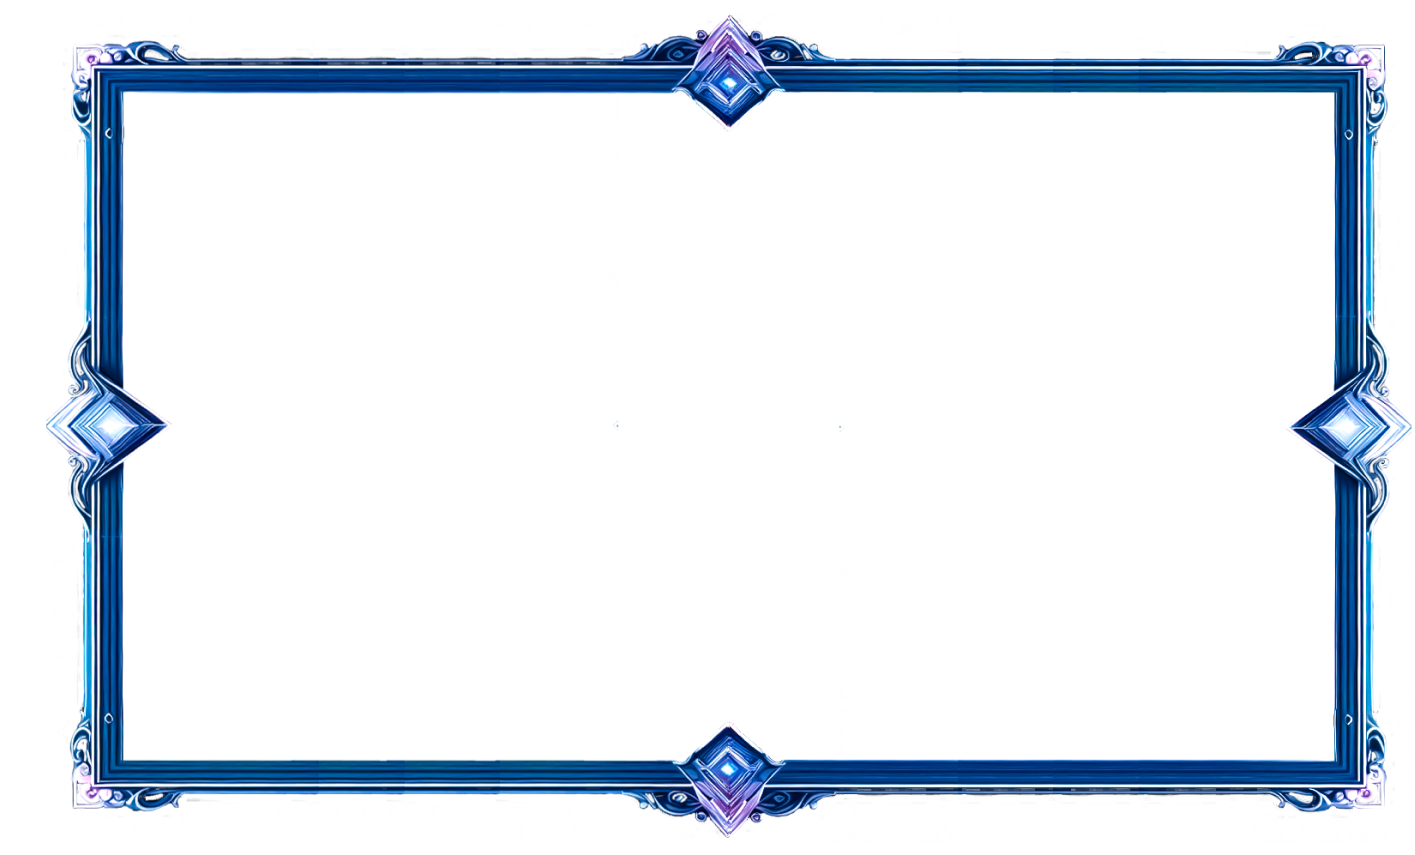
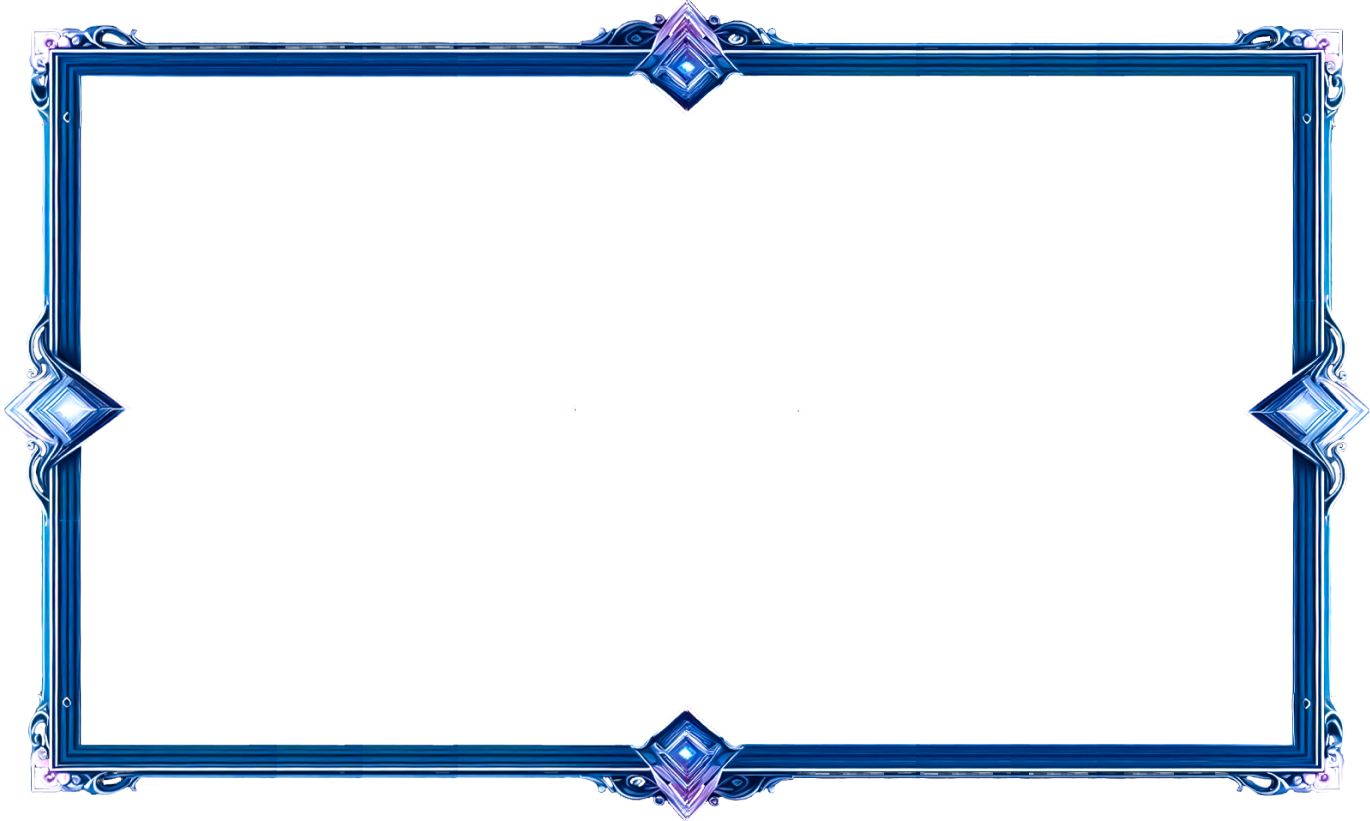
Add spirits in frame

Changed region(s): [[0.0, 0.0, 1.0, 1.0]]

diff --git a/src/modules/SpiritualFamily/components/NewContent/components/Second/Second.tsx b/src/modules/SpiritualFamily/components/NewContent/components/Second/Second.tsx
@@ -1,7 +1,36 @@
+import { useState } from "react";
+import Spirit from "./components/Spirit/Spirit";
+
+interface ISpirit {
+  id: string;
+  name: string;
+}
+
 export default function Second() {
+  const [spirits, setSpirits] = useState<ISpirit[]>([
+    { id: "1", name: "Espiritu 1" },
+    { id: "2", name: "Espiritu 2" },
+    { id: "3", name: "Espiritu 3" },
+    { id: "4", name: "Espiritu 4" },
+    { id: "5", name: "Espiritu 5" },
+    { id: "6", name: "Espiritu 6" },
+    { id: "7", name: "Espiritu 7" },
+    { id: "8", name: "Espiritu 8" },
+    { id: "9", name: "Espiritu 9" },
+    { id: "10", name: "Espiritu 10" },
+  ]);
+
   return (
-    <section>
+    <section className="w-full relative flex justify-center">
       <img src="/marco.png" alt="" />
+
+      <div className="flex justify-center w-full h-full absolute top-0 left-0">
+        <div className="w-full h-full grid lg:grid-cols-6 sm:grid-cols-4 grid-cols-2 lg:grid-rows-4 lg:py-24 py-14 px-5 max-w-[900px]">
+          {spirits.map((s) => (
+            <Spirit key={s.id} name={s.name} />
+          ))}
+        </div>
+      </div>
     </section>
   );
 }

diff --git a/src/modules/SpiritualFamily/components/NewContent/components/Second/components/Spirit/Spirit.tsx b/src/modules/SpiritualFamily/components/NewContent/components/Second/components/Spirit/Spirit.tsx
@@ -1,0 +1,12 @@
+interface Props {
+  name: string;
+}
+
+export default function Spirit({ name }: Props) {
+  return (
+    <div className="flex flex-col items-center">
+      <article className="w-[40px] h-[40px] bg-gray-200 rounded-full"></article>
+      <p className="text-sm">{name}</p>
+    </div>
+  );
+}
